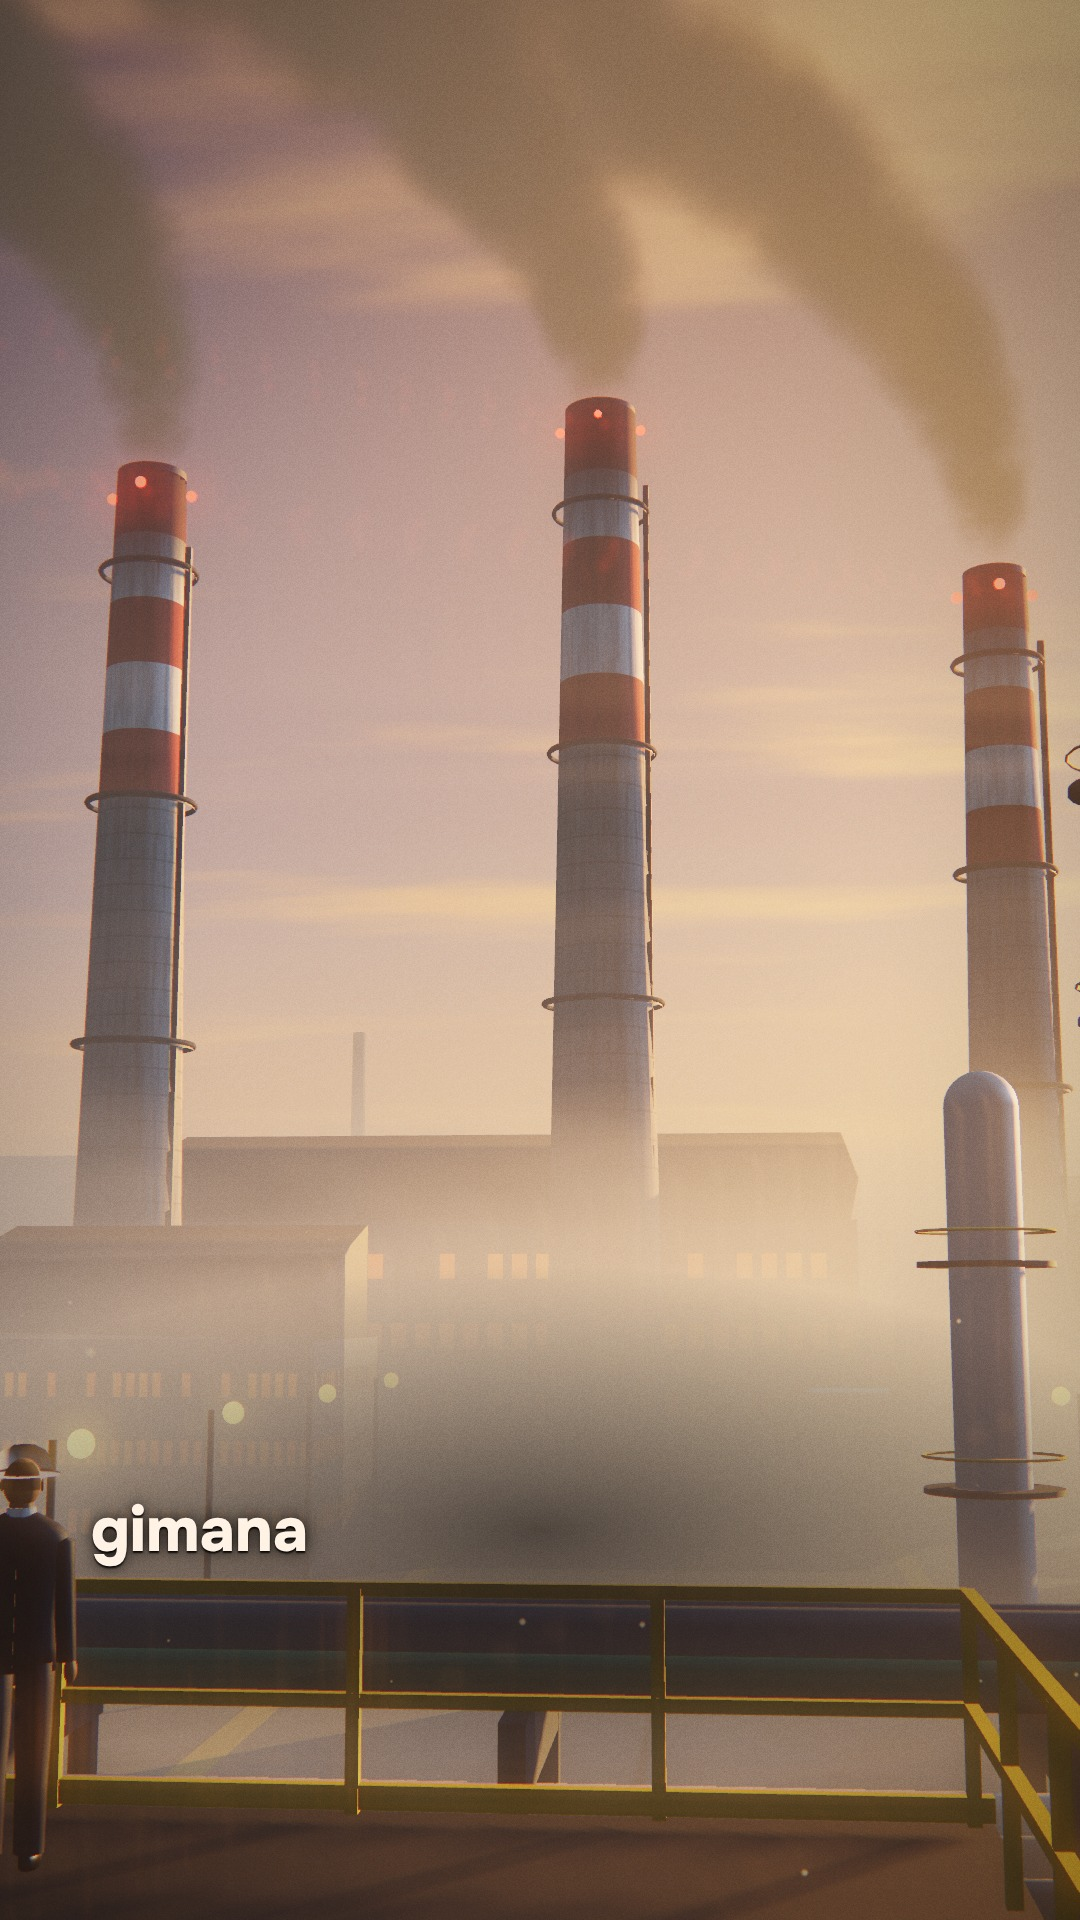
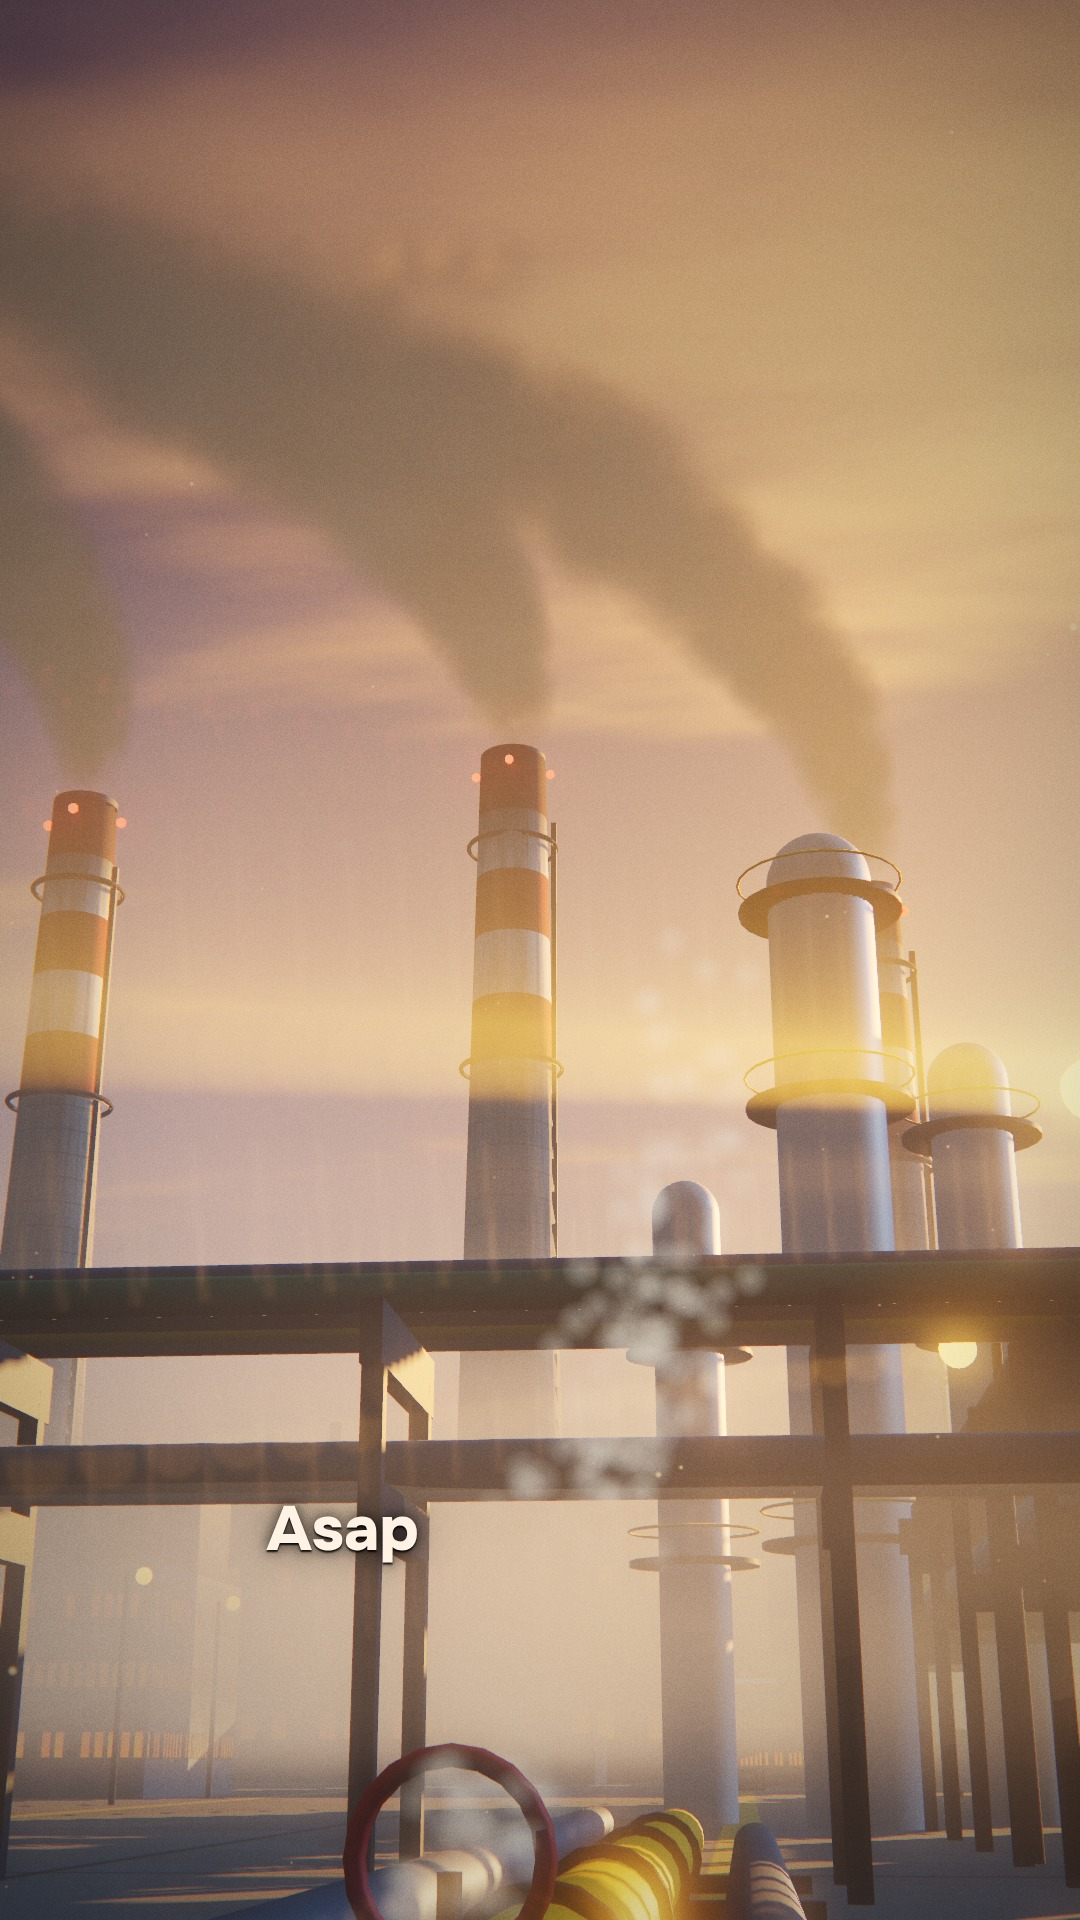
Potret cek & index terbaru sebelum render penuh
Claude-Session: https://claude.ai/code/session_01CdVjsQfvXhZiUKzxUtj6k1

diff --git a/dekarbonisasi/index.html b/dekarbonisasi/index.html
@@ -174,8 +174,10 @@ const VO_AT = [.4, 8.8, 14.3, 23.1, 30.8], [T1, T2, T3, T4, T5] = VO_AT, DUR = 3
 const TG = kt('bumi', T5) - .12;                                   // potong ke bola Bumi tepat di kata "Bumi bersih"
 const MOMEN = { judulMasuk: .4, judulKeluar: kt('karbon') - .15, co2: kt('dioksida') - .05, co2Hilang: kt('terus') - .3,
   menteri: Math.max(kt('terus') + .1, 6.7), DUR };
-const SFX = [{src: 'assets/audio/sfx-whoosh.mp3', at: 4.6, vol: .35}, {src: 'assets/audio/sfx-whoosh.mp3', at: T2 - .35, vol: .3},
-  {src: 'assets/audio/sfx-whoosh.mp3', at: T4 - .3, vol: .28}, {src: 'assets/audio/sfx-whoosh.mp3', at: TG - .45, vol: .4}];
+const SFX = [{src: 'assets/audio/sfx-boom.mp3', at: .3, vol: .4}, {src: 'assets/audio/sfx-whoosh.mp3', at: 4.6, vol: .35},
+  {src: 'assets/audio/sfx-whoosh.mp3', at: T2 - .35, vol: .3}, {src: 'assets/audio/sfx-ding.mp3', at: 10.85, vol: .3},
+  {src: 'assets/audio/sfx-whoosh.mp3', at: T4 - .3, vol: .28}, {src: 'assets/audio/sfx-ding.mp3', at: kt('cuan') + .42, vol: .3},
+  {src: 'assets/audio/sfx-whoosh.mp3', at: T5 + 2.0, vol: .3}, {src: 'assets/audio/sfx-boom.mp3', at: TG - .2, vol: .32}];
 
 /* ============ [1] PALET & FONT ============ */
 const C = h => new THREE.Color(h).convertSRGBToLinear(), V3 = (x, y, z) => new THREE.Vector3(x, y, z), DEG = Math.PI / 180;
